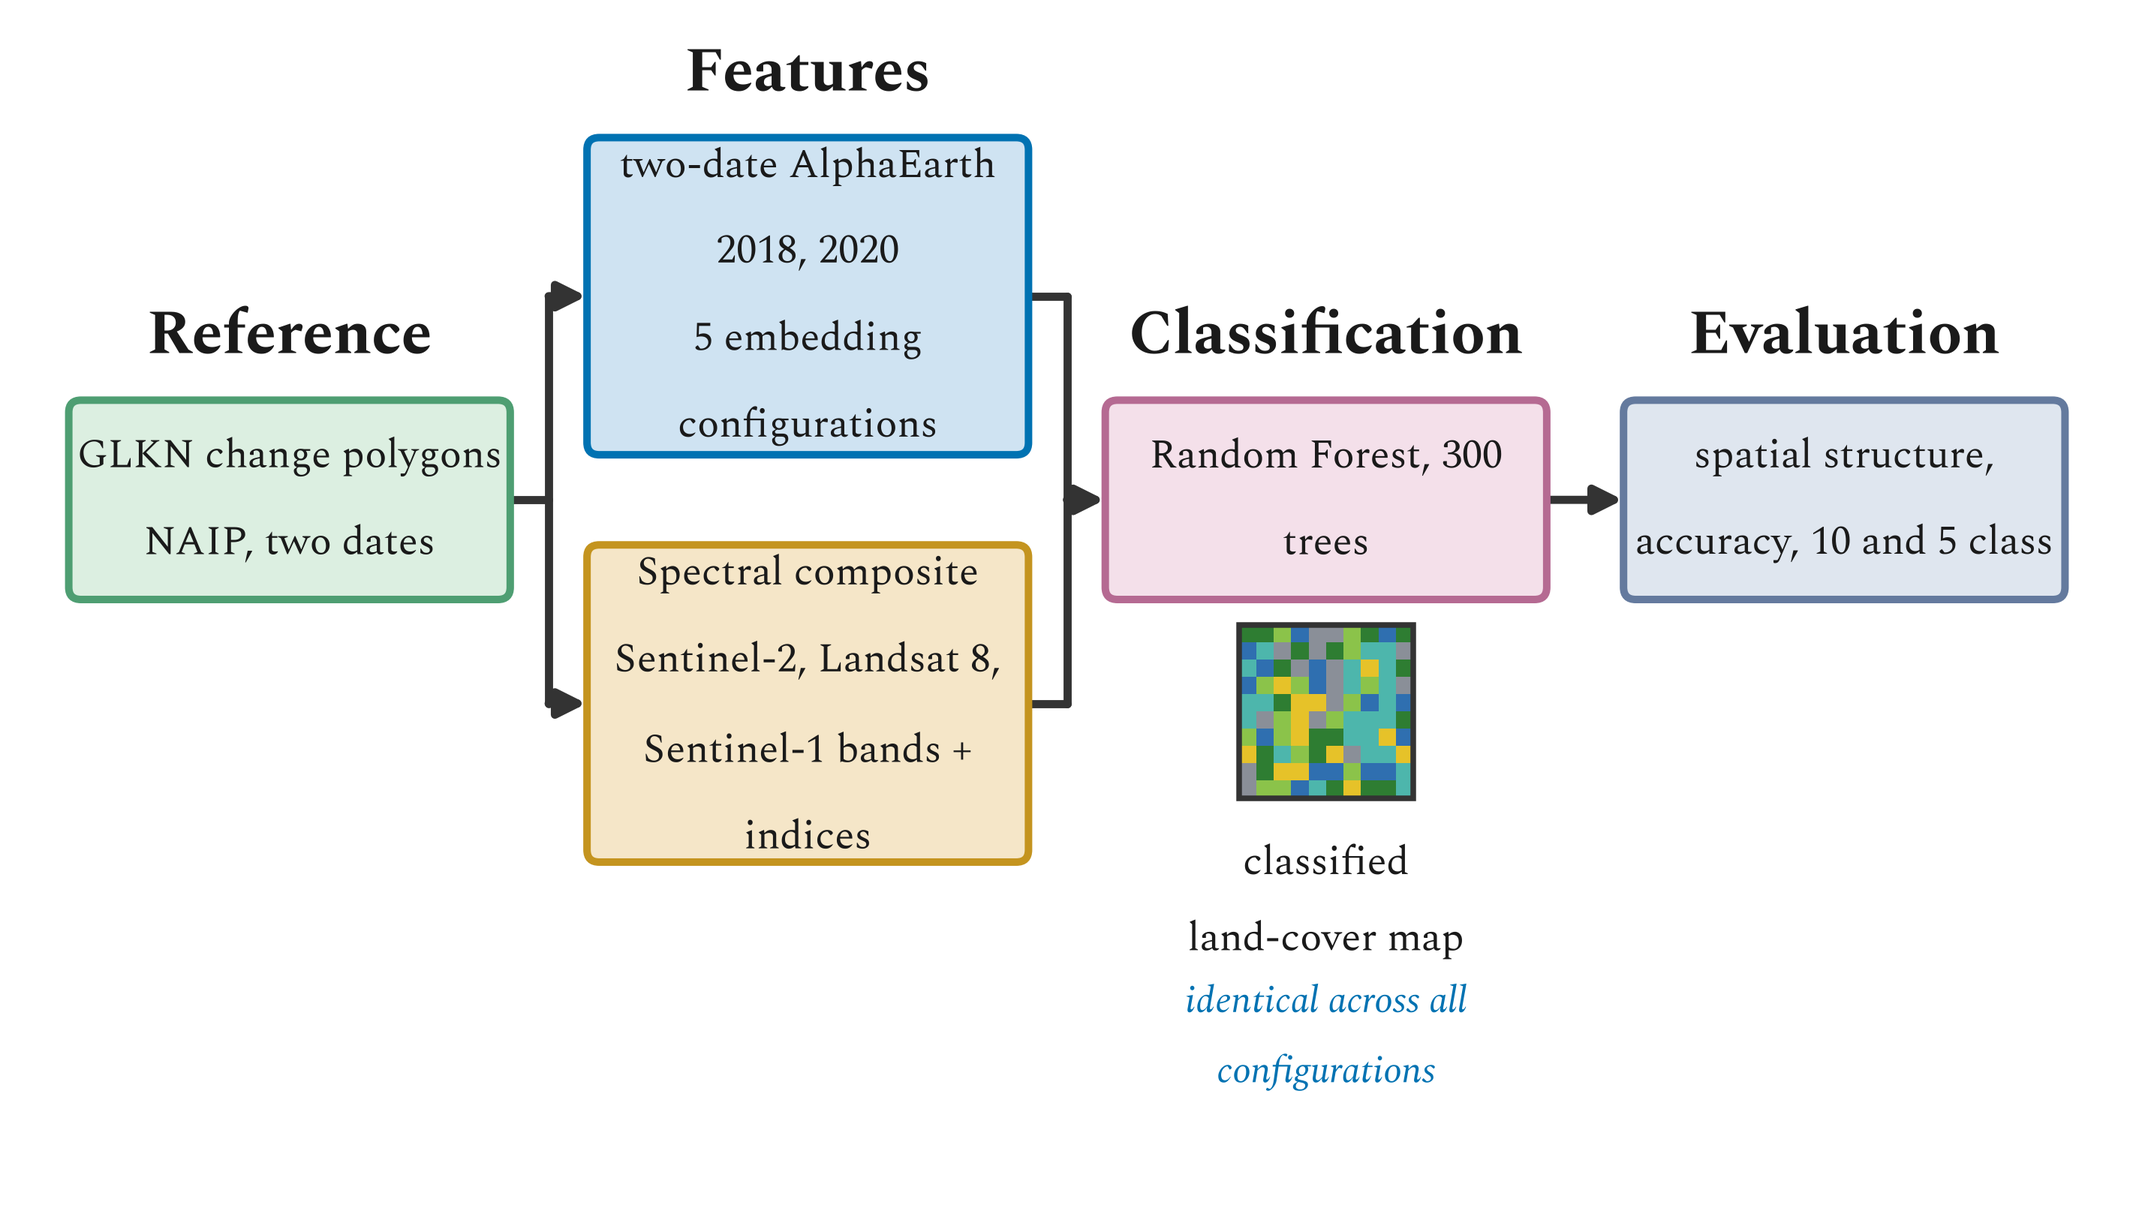
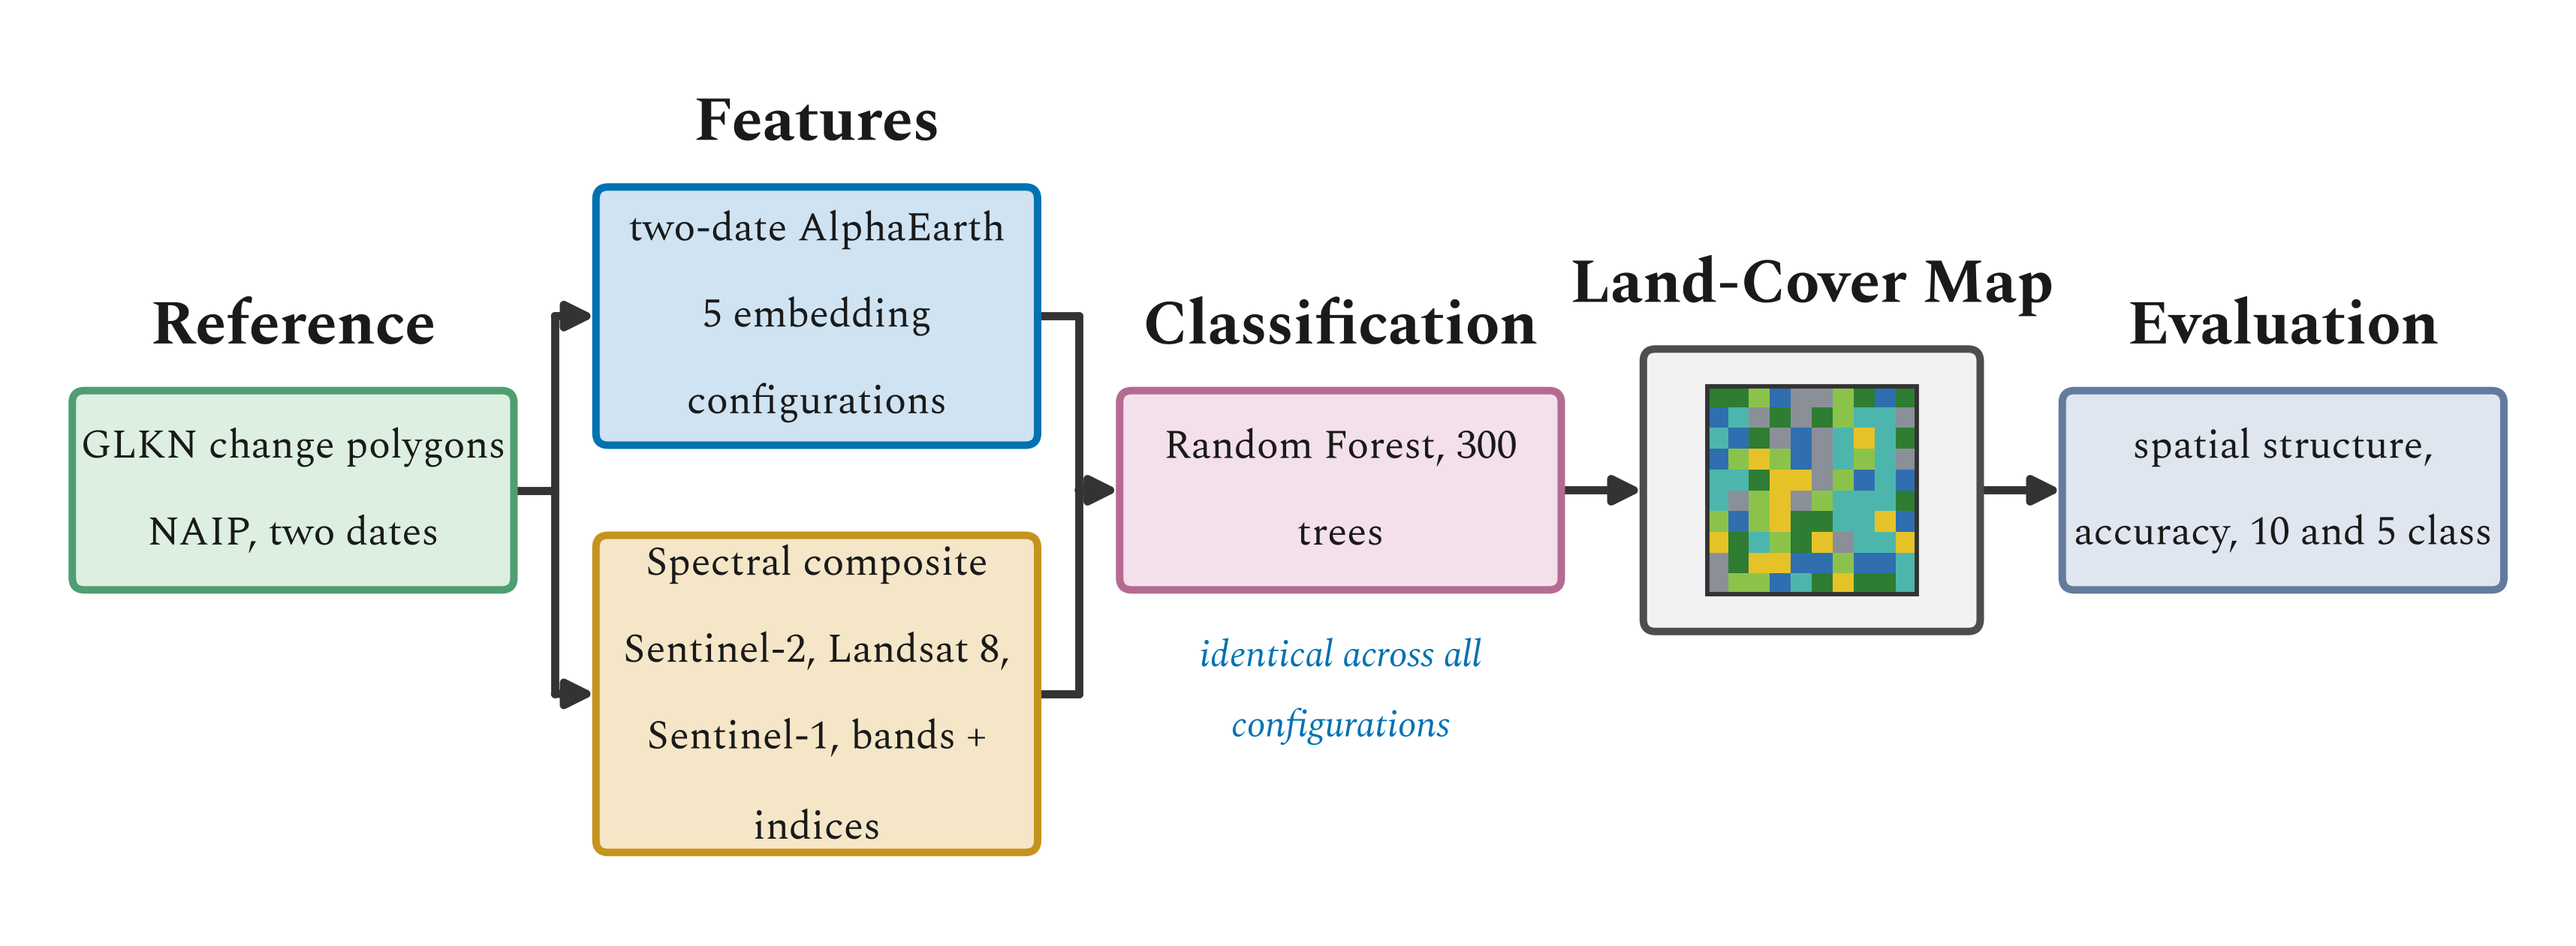
pres_11 v2: classified map as its own pipeline box; label tweaks
Random Forest now feeds a dedicated Land-Cover Map box, which feeds Evaluation. AlphaEarth
box drops '2018, 2020'; spectral list adds a comma after Sentinel-1. Layout refactored to
per-column widths (narrower square map box) on a 14.5x5.2 in canvas.

diff --git a/presentation/scripts/pres_11_workflow_simple_v2.py b/presentation/scripts/pres_11_workflow_simple_v2.py
@@ -1,16 +1,20 @@
 #!/usr/bin/env python3
-"""pres_11_workflow_simple_v2: colored four-stage workflow, with a classified land-cover map.
+"""pres_11_workflow_simple_v2: colored five-stage workflow with a classified land-cover map box.
 
-New version of the colored workflow diagram (pres_11_workflow_simple_colored). Same four columns left to
-right (Reference, Features, Classification, Evaluation) and the same single fork at Features, but:
+New version of the colored workflow diagram (pres_11_workflow_simple_colored). Left to right:
+  Reference -> Features (the single fork) -> Classification -> Land-Cover Map -> Evaluation
+The classified land-cover map is now its own box in the pipeline: the Random Forest arrow feeds it,
+and it in turn feeds Evaluation. The map grid is drawn like the one in pres_16_spectral_baseline but
+with a different (illustrative) pixel pattern.
+
+Text differences from the original:
   - Reference drops the "wall-to-wall labels" line.
-  - Features / embeddings reads "two-date AlphaEarth 2018, 2020".
-  - Features / spectral reads "Spectral composite" over "Sentinel-2, Landsat 8, Sentinel-1 bands +
+  - Features / embeddings reads "two-date AlphaEarth".
+  - Features / spectral reads "Spectral composite" over "Sentinel-2, Landsat 8, Sentinel-1, bands +
     indices" (the "about 50 bands" line is gone).
-  - Classification shows a small classified land-cover map under the Random Forest box, drawn like the
-    one in pres_16_spectral_baseline but with a different (illustrative) pixel pattern.
 
-Geometry follows the original: fixed canvas, text fit inside each box (body 13 pt, labels 20 pt).
+Geometry: columns are laid out left to right with per-column widths (the map box is a narrower square),
+so text stays fit inside each box (body 13 pt, labels 20 pt).
 
 Output (PNG only for the Google Slides deck):
   pres_11_workflow_simple_colored_v2.png
@@ -33,7 +37,7 @@ OUT = os.path.join(ROOT, "presentation", "figures")
 
 EMB_FILL, EMB_EDGE = "#cfe3f2", "#0072B2"
 SPEC_FILL, SPEC_EDGE = "#f5e6c8", "#c4941f"         # muted amber, complements the embedding blue
-STAGE_FILL, STAGE_EDGE = "white", "#333333"
+MAP_FILL, MAP_EDGE = "#f2f2f4", "#4d4d4d"           # light neutral so the colorful grid pops
 ARROW = "#333333"
 CONTROL = "#0072B2"
 # soft, clearly distinct per-stage tints for the colored variant (single-box stages)
@@ -45,28 +49,33 @@ STAGE_COLORS = {"Reference": ("#dcefe1", "#4e9e72"),        # green
 LC_COLORS = ["#2e7d32", "#e6c229", "#2f6fb0", "#8a8f98", "#8bc34a", "#4db6ac"]
 LC_PATTERN = np.random.default_rng(11).integers(0, len(LC_COLORS), size=(10, 10)).tolist()
 
-FIG_W, FIG_H = 12.0, 6.8
-WB, PAD_X, GAP, MARGIN = 2.5, 0.24, 0.47, 0.28     # box width, side pad, inter-stage gap, margin (in)
+WB, MAPB = 2.5, 1.9                                 # text-box width, map-box width (in)
+PAD_X, GAP, MARGIN = 0.24, 0.5, 0.3                 # side pad, inter-stage gap, page margin (in)
 LH, VPAD = 0.34, 0.22                               # line height, box vertical pad (in)
+MAP_BOX_H = 1.6                                     # map-box height (in); grid drawn inside
 LABEL_FS, DETAIL_FS, CTRL_FS = 20, 13, 12
-MAP_SZ, MAP_GAP, CAP_GAP = 1.0, 0.16, 0.12          # classified-map icon size and gaps (in)
+LABEL_H = 0.42                                      # approx label height above a box (in)
 DIM = {"Classification", "Evaluation"}
 INNER = WB - 2 * PAD_X
 CTRL_LINES = []
 
 STAGES = [
-    {"label": "Reference", "phrases": ["GLKN change polygons", "NAIP, two dates"]},
-    {"label": "Features", "branches": [
-        {"fill": EMB_FILL, "edge": EMB_EDGE, "phrases": ["two-date AlphaEarth 2018, 2020",
+    {"label": "Reference", "w": WB, "phrases": ["GLKN change polygons", "NAIP, two dates"]},
+    {"label": "Features", "w": WB, "branches": [
+        {"fill": EMB_FILL, "edge": EMB_EDGE, "phrases": ["two-date AlphaEarth",
                                                          "5 embedding configurations"]},
         {"fill": SPEC_FILL, "edge": SPEC_EDGE, "phrases": ["Spectral composite",
-                                                          "Sentinel-2, Landsat 8, Sentinel-1 bands + indices"]},
+                                                          "Sentinel-2, Landsat 8, Sentinel-1, bands + indices"]},
     ]},
-    {"label": "Classification", "phrases": ["Random Forest, 300 trees"]},
-    {"label": "Evaluation", "phrases": ["spatial structure,", "accuracy, 10 and 5 class"]},
+    {"label": "Classification", "w": WB, "phrases": ["Random Forest, 300 trees"]},
+    {"label": "Land-Cover Map", "w": MAPB, "map": True},
+    {"label": "Evaluation", "w": WB, "phrases": ["spatial structure,", "accuracy, 10 and 5 class"]},
 ]
 CTRL_TEXT = "identical across all configurations"
-CAP_LINES = ["classified", "land-cover map"]
+
+WIDTHS = [s["w"] for s in STAGES]
+FIG_W = 2 * MARGIN + sum(WIDTHS) + GAP * (len(STAGES) - 1)
+FIG_H = 5.2
 
 
 def _tw(fig, r, s, fs):
@@ -110,7 +119,7 @@ def _wrap_all():
         if "branches" in s:
             for br in s["branches"]:
                 br["_lines"] = box_lines(br["phrases"])
-        else:
+        elif "phrases" in s:
             s["_lines"] = box_lines(s["phrases"])
     CTRL_LINES[:] = _wrap(fig, r, CTRL_TEXT, INNER, CTRL_FS)[0]
     plt.close(fig)
@@ -121,29 +130,31 @@ def _h(n):
     return n * LH + 2 * VPAD
 
 
-def _box(ax, cx, top, lines, fill, edge, alpha, lw=2.4):
+def _box(ax, cx, cyc, lines, fill, edge, alpha, w, lw=2.4):
     h = _h(len(lines))
-    ax.add_patch(FancyBboxPatch((cx - WB / 2, top - h), WB, h,
+    ax.add_patch(FancyBboxPatch((cx - w / 2, cyc - h / 2), w, h,
                                 boxstyle="round,pad=0.015,rounding_size=0.07", facecolor=fill,
                                 edgecolor=edge, linewidth=lw, zorder=3, alpha=alpha))
-    ax.text(cx, top - h / 2, "\n".join(lines), ha="center", va="center", fontsize=DETAIL_FS,
+    ax.text(cx, cyc, "\n".join(lines), ha="center", va="center", fontsize=DETAIL_FS,
             color="0.1", zorder=4, alpha=alpha, linespacing=1.4)
 
 
-def _map(ax, cx, cy, size, alpha):
-    """Classified land-cover map icon: a grid of illustrative class colors, with a caption below."""
+def _mapbox(ax, cx, cyc, w, h, alpha):
+    """A pipeline box whose content is a classified land-cover map (grid of illustrative class colors)."""
+    ax.add_patch(FancyBboxPatch((cx - w / 2, cyc - h / 2), w, h,
+                                boxstyle="round,pad=0.015,rounding_size=0.07", facecolor=MAP_FILL,
+                                edgecolor=MAP_EDGE, linewidth=2.4, zorder=3, alpha=alpha))
     n = len(LC_PATTERN)
-    cs = size / n
-    x0, y0 = cx - size / 2, cy - size / 2
+    g = min(w - 0.4, h - 0.4)
+    cs = g / n
+    x0, y0 = cx - g / 2, cyc - g / 2
     for i in range(n):
         for j in range(n):
             ax.add_patch(Rectangle((x0 + j * cs, y0 + (n - 1 - i) * cs), cs, cs,
                                    facecolor=LC_COLORS[LC_PATTERN[i][j]], edgecolor="none",
-                                   zorder=3, alpha=alpha))
-    ax.add_patch(Rectangle((x0, y0), size, size, fill=False, edgecolor="#333333", linewidth=1.8,
-                           zorder=4, alpha=alpha))
-    ax.text(cx, y0 - CAP_GAP, "\n".join(CAP_LINES), ha="center", va="top", fontsize=DETAIL_FS,
-            color="0.1", zorder=4, alpha=alpha, linespacing=1.3)
+                                   zorder=4, alpha=alpha))
+    ax.add_patch(Rectangle((x0, y0), g, g, fill=False, edgecolor="#333333", linewidth=1.4,
+                           zorder=5, alpha=alpha))
 
 
 def _label(ax, cx, y, text, alpha):
@@ -162,24 +173,35 @@ def _arrow(ax, p1, p2, alpha, lw=2.6):
 
 
 def draw(dim=False, colored=True):
-    cx = [MARGIN + WB / 2 + i * (WB + GAP) for i in range(len(STAGES))]
+    # column centers from per-column widths
+    xs, x = [], MARGIN
+    for w in WIDTHS:
+        xs.append(x + w / 2)
+        x += w + GAP
     kf = next(i for i, s in enumerate(STAGES) if "branches" in s)     # fork column index
+
     he = _h(len(STAGES[kf]["branches"][0]["_lines"]))
     hs = _h(len(STAGES[kf]["branches"][1]["_lines"]))
     h_class = _h(len(STAGES[kf + 1]["_lines"]))
-    cap_h = _h(len(CAP_LINES)) - 2 * VPAD + 0.10                       # caption block height (no box pad)
     sep = 0.55
-
     emb_cy = sep / 2 + he / 2
     spec_cy = -sep / 2 - hs / 2
-    top_y = h_class / 2
-    # classified-map icon under the Classification box, then the control annotation under the map
-    map_top = top_y - h_class - MAP_GAP
-    map_cy = map_top - MAP_SZ / 2
-    ctrl_top = map_top - MAP_SZ - cap_h - 0.16               # control annotation sits under the map + caption
-    ctrl_bot = ctrl_top - _h(len(CTRL_LINES))
-    tops = [top_y + 0.12 + 0.3, emb_cy + he / 2 + 0.12 + 0.3]
-    bots = [top_y - _h(len(STAGES[0]["_lines"])), spec_cy - hs / 2, ctrl_bot]
+
+    # control annotation sits under the Classification box (blocks stay centered on the arrow line)
+    ctrl_top = -h_class / 2 - 0.16
+    ctrl_bot = ctrl_top - len(CTRL_LINES) * LH
+
+    def box_h(s):
+        return MAP_BOX_H if s.get("map") else _h(len(s["_lines"]))
+
+    tops, bots = [], [ctrl_bot]
+    for i, s in enumerate(STAGES):
+        if "branches" in s:
+            tops.append(emb_cy + he / 2 + 0.12 + LABEL_H)
+            bots.append(spec_cy - hs / 2)
+        else:
+            tops.append(box_h(s) / 2 + 0.12 + LABEL_H)
+            bots.append(-box_h(s) / 2)
     ya = FIG_H / 2 - (max(tops) + min(bots)) / 2
 
     fig, ax = plt.subplots(figsize=(FIG_W, FIG_H))
@@ -191,29 +213,29 @@ def draw(dim=False, colored=True):
         return 0.25 if (dim and label in DIM) else 1.0
 
     for i, s in enumerate(STAGES):
-        al = a(s["label"])
+        al, w = a(s["label"]), WIDTHS[i]
         if "branches" in s:
-            _box(ax, cx[i], ya + emb_cy + he / 2, s["branches"][0]["_lines"],
-                 s["branches"][0]["fill"], s["branches"][0]["edge"], al)
-            _box(ax, cx[i], ya + spec_cy + hs / 2, s["branches"][1]["_lines"],
-                 s["branches"][1]["fill"], s["branches"][1]["edge"], al)
-            _label(ax, cx[i], ya + emb_cy + he / 2 + 0.12, s["label"], al)
+            _box(ax, xs[i], ya + emb_cy, s["branches"][0]["_lines"],
+                 s["branches"][0]["fill"], s["branches"][0]["edge"], al, w)
+            _box(ax, xs[i], ya + spec_cy, s["branches"][1]["_lines"],
+                 s["branches"][1]["fill"], s["branches"][1]["edge"], al, w)
+            _label(ax, xs[i], ya + emb_cy + he / 2 + 0.12, s["label"], al)
+        elif s.get("map"):
+            _mapbox(ax, xs[i], ya, w, MAP_BOX_H, al)
+            _label(ax, xs[i], ya + MAP_BOX_H / 2 + 0.12, s["label"], al)
         else:
-            fill, edge = STAGE_COLORS.get(s["label"], (STAGE_FILL, STAGE_EDGE)) if colored \
-                else (STAGE_FILL, STAGE_EDGE)
-            _box(ax, cx[i], ya + top_y, s["_lines"], fill, edge, al)
-            _label(ax, cx[i], ya + top_y + 0.12, s["label"], al)
+            fill, edge = STAGE_COLORS.get(s["label"], ("white", "#333333"))
+            h = _h(len(s["_lines"]))
+            _box(ax, xs[i], ya, s["_lines"], fill, edge, al, w)
+            _label(ax, xs[i], ya + h / 2 + 0.12, s["label"], al)
 
     ca = ya
     up, lo = ya + emb_cy, ya + spec_cy
-    b0r = cx[kf - 1] + WB / 2
-    b1l, b1r = cx[kf] - WB / 2, cx[kf] + WB / 2
-    b2l = cx[kf + 1] - WB / 2
+    b0r = xs[kf - 1] + WIDTHS[kf - 1] / 2
+    b1l, b1r = xs[kf] - WIDTHS[kf] / 2, xs[kf] + WIDTHS[kf] / 2
+    b2l = xs[kf + 1] - WIDTHS[kf + 1] / 2
     xf, xm = (b0r + b1l) / 2, (b1r + b2l) / 2
     am = a(STAGES[kf + 1]["label"])   # merge is revealed with Classification
-
-    # classified land-cover map under the Classification box
-    _map(ax, cx[kf + 1], ya + map_cy, MAP_SZ, am)
 
     # fork: Reference into the two feature tracks
     _line(ax, [b0r, xf], [ca, ca], 1.0)
@@ -225,10 +247,12 @@ def draw(dim=False, colored=True):
     _line(ax, [b1r, xm], [lo, lo], am)
     _line(ax, [xm, xm], [lo, up], am)
     _arrow(ax, (xm, ca), (b2l, ca), am)
-    # remaining single-chain arrow (Classification -> Evaluation)
-    _arrow(ax, (cx[kf + 1] + WB / 2, ca), (cx[kf + 2] - WB / 2, ca), a(STAGES[kf + 2]["label"]))
+    # single chain after the merge: Classification -> Land-Cover Map -> Evaluation
+    for i in range(kf + 1, len(STAGES) - 1):
+        _arrow(ax, (xs[i] + WIDTHS[i] / 2, ca), (xs[i + 1] - WIDTHS[i + 1] / 2, ca),
+               a(STAGES[i + 1]["label"]))
 
-    ax.text(cx[kf + 1], ya + ctrl_top, "\n".join(CTRL_LINES), ha="center", va="top",
+    ax.text(xs[kf + 1], ya + ctrl_top, "\n".join(CTRL_LINES), ha="center", va="top",
             fontsize=CTRL_FS, style="italic", color=CONTROL, alpha=am, zorder=4, linespacing=1.3)
 
     return fig, ya + max(tops), ya + min(bots)
@@ -241,20 +265,20 @@ def main():
         if "branches" in s:
             print(f"  Features, embeddings: {s['branches'][0]['_lines']}")
             print(f"  Features, spectral:   {s['branches'][1]['_lines']}")
-        else:
+        elif "phrases" in s:
             print(f"  {s['label']}: {s['_lines']}")
     print(f"  merge annotation (italic): {CTRL_TEXT}")
     if overflow:
         print("  WARN word wider than box:", overflow)
 
     os.makedirs(OUT, exist_ok=True)
-    fig, top_e, bot_e = draw(dim=False, colored=True)     # colored-box variant with classified map, png only
+    fig, top_e, bot_e = draw(dim=False, colored=True)     # colored variant with the map box, png only
     fig.savefig(f"{OUT}/pres_11_workflow_simple_colored_v2.png", dpi=300, bbox_inches="tight")
     plt.close(fig)
 
-    print(f"canvas {FIG_W:.0f} x {FIG_H:.1f} in; content spans y [{bot_e:.2f}, {top_e:.2f}] of {FIG_H}")
+    print(f"canvas {FIG_W:.2f} x {FIG_H:.1f} in; content spans y [{bot_e:.2f}, {top_e:.2f}] of {FIG_H}")
     print("  DOES NOT FIT height" if (bot_e < 0.1 or top_e > FIG_H - 0.1)
-          else f"  fits at {DETAIL_FS} pt body, {LABEL_FS} pt labels on the fixed {FIG_W:.0f} x {FIG_H:.1f} in canvas.")
+          else f"  fits at {DETAIL_FS} pt body, {LABEL_FS} pt labels on the {FIG_W:.2f} x {FIG_H:.1f} in canvas.")
     print("wrote pres_11_workflow_simple_colored_v2.png")
 
 

diff --git a/presentation/figures/FIGURES.md b/presentation/figures/FIGURES.md
@@ -70,9 +70,10 @@ Classification, Evaluation. Colored-box variant:
 
 ![Figure 11 colored](pres_11_workflow_simple_colored.png)
 
-Version 2 — same flow with a classified land-cover map under the Classification box (illustrative
-pixels, like pres_16), Reference trimmed to two lines, and the Features labels updated (two-date
-AlphaEarth; "Spectral composite" over "Sentinel-2, Landsat 8, Sentinel-1 bands + indices"):
+Version 2 — the classified land-cover map is its own box in the pipeline (Random Forest -> Land-Cover
+Map -> Evaluation; illustrative pixels, like pres_16). Reference trimmed to two lines, and the Features
+labels updated (two-date AlphaEarth; "Spectral composite" over "Sentinel-2, Landsat 8, Sentinel-1,
+bands + indices"):
 
 ![Figure 11 colored v2](pres_11_workflow_simple_colored_v2.png)
 
